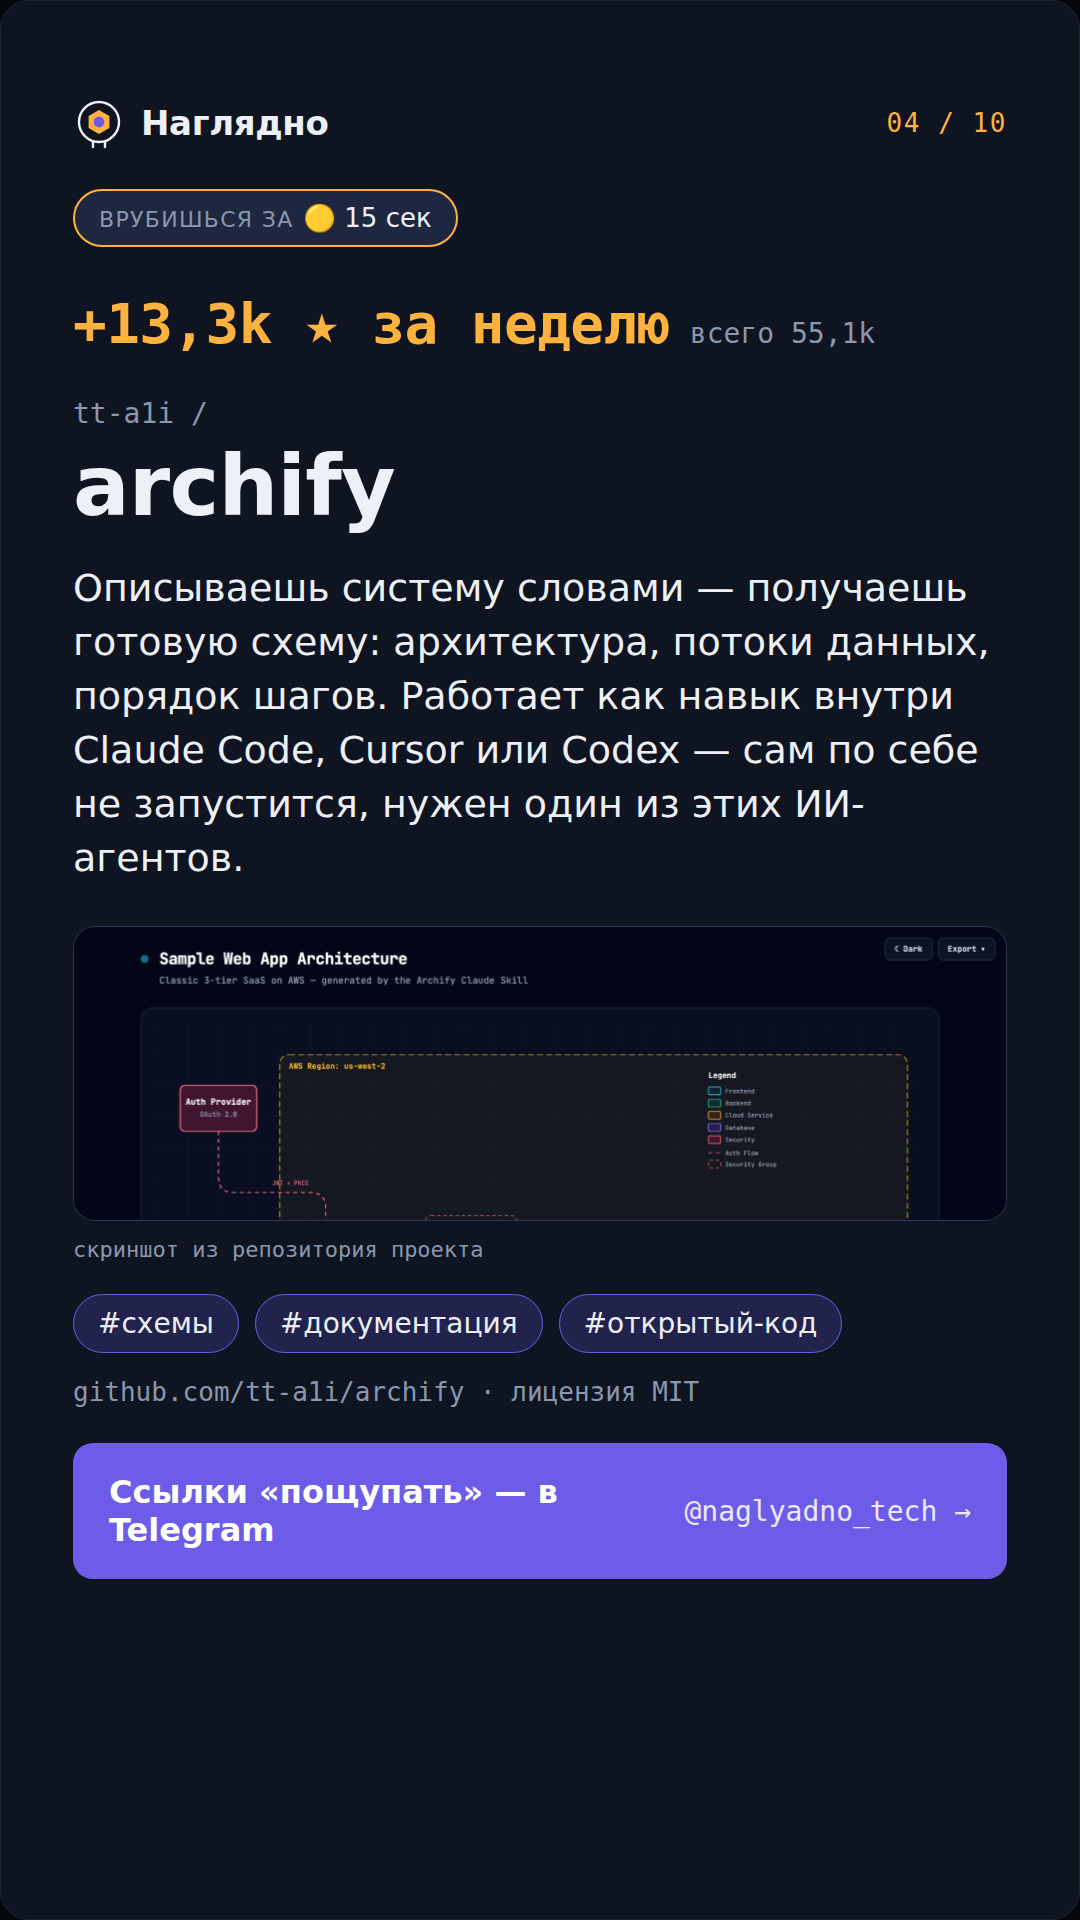
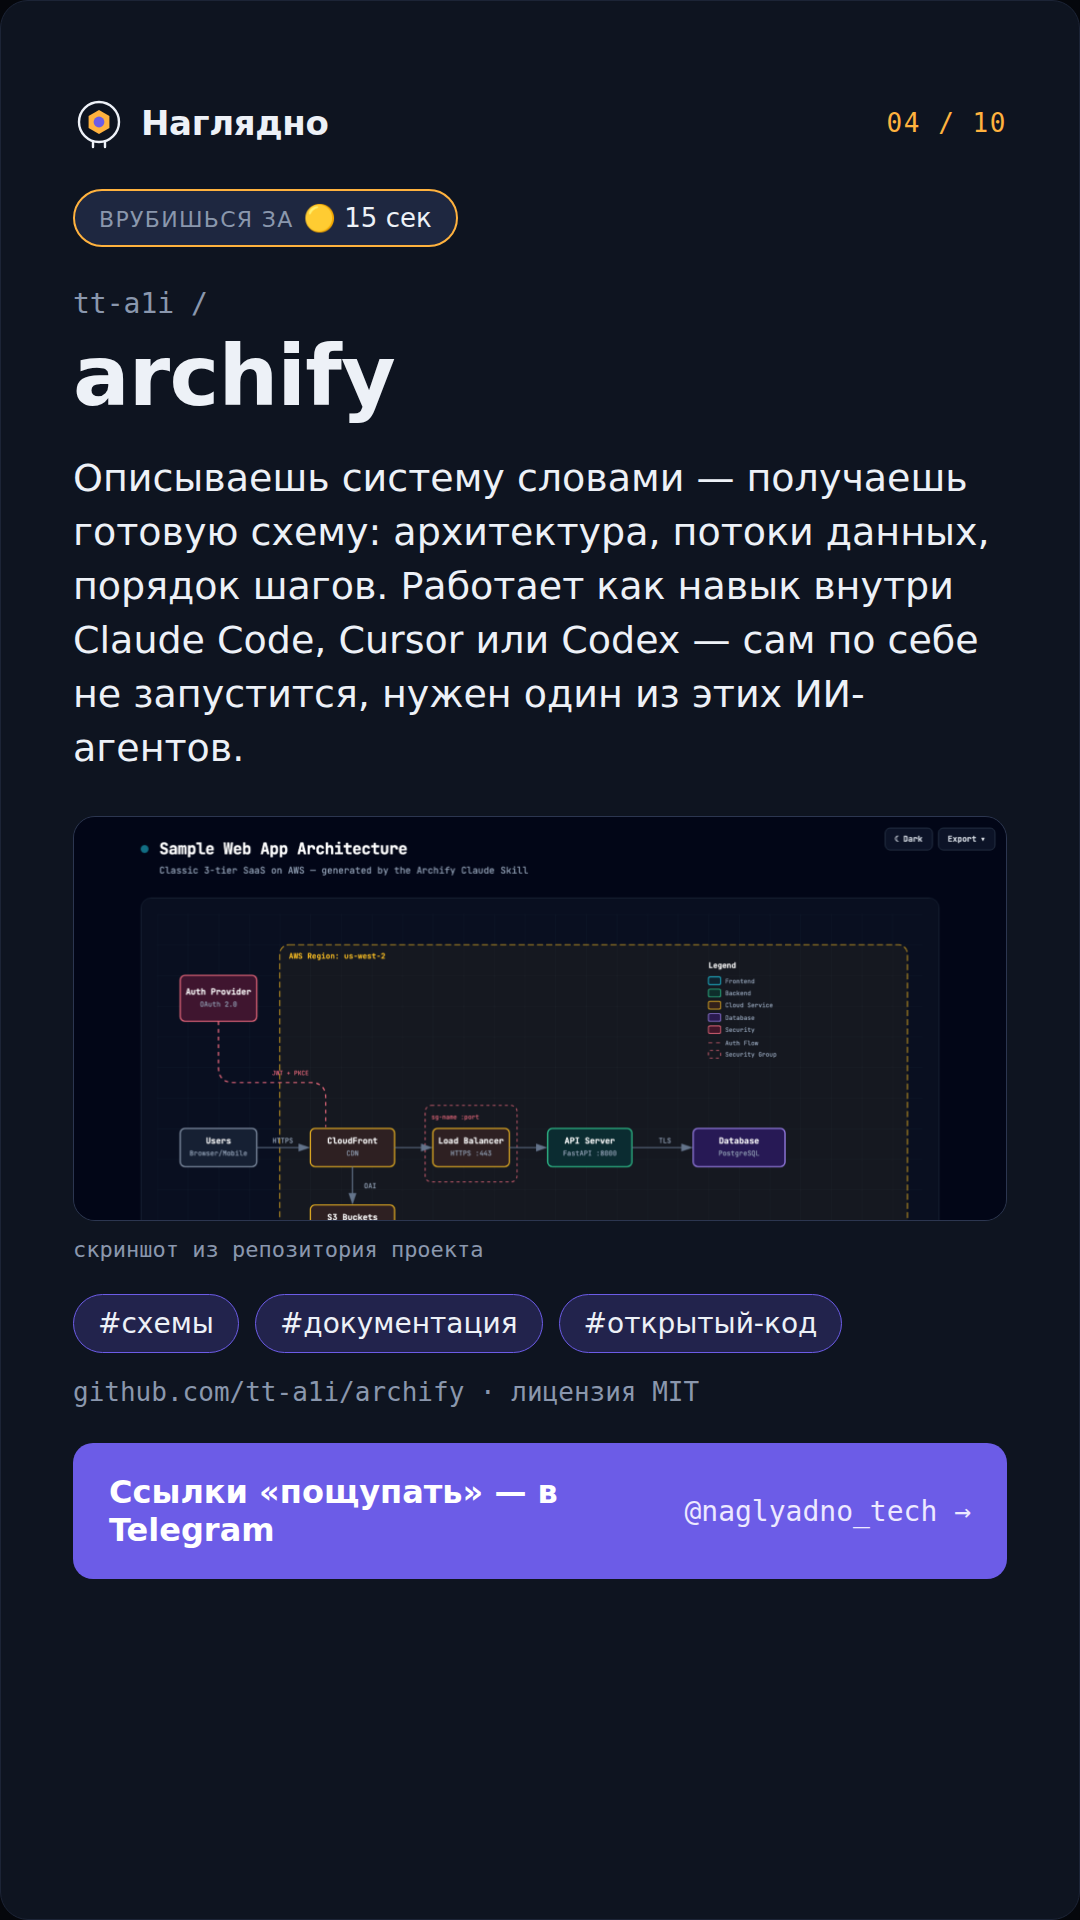
Убрать цифры звёзд с карточек
Числа не удалось подтвердить первоисточником — GitHub API из рабочей
среды недоступен, а веб-выдача на двух проверочных репозиториях дала
заведомо неверные значения. Блок метрики убран с карточек и с обложки;
чип «врубишься за» и описание остаются.

Заодно исправлена разбивка альбомов в publishToChannel: деление по 10
на наборе из 11 карточек давало хвост из одного элемента, а альбом
из одного медиа Telegram отклоняет. Теперь набор режется поровну.

Claude-Session: https://claude.ai/code/session_01DzVTpoES8dbpXif4hazhAx

diff --git a/cards/trending-repos.html b/cards/trending-repos.html
@@ -38,9 +38,6 @@ body{background:#05070c;font-family:var(--font-text);padding:40px;
   border:2px solid var(--accent);border-radius:999px;padding:12px 24px;font-size:26px}
 .chip small{color:var(--text-muted);text-transform:uppercase;letter-spacing:.06em;margin-right:10px;font-size:22px}
 
-.metric{margin-top:44px;display:flex;align-items:baseline;gap:20px;flex-wrap:wrap;min-height:66px}
-.metric .delta{font-family:var(--font-mono);font-weight:700;font-size:56px;color:var(--accent);letter-spacing:-.01em}
-.metric .total{font-family:var(--font-mono);font-size:28px;color:var(--text-muted)}
 
 .owner{margin-top:40px;font-family:var(--font-mono);font-size:28px;color:var(--text-muted)}
 h1{font-family:var(--font-display);font-weight:700;font-size:84px;line-height:1.05;letter-spacing:-.01em;margin-top:12px}
@@ -98,7 +95,7 @@ body.show-safe .safe{display:block}
 </style>
 </head>
 <body>
-<div class="slidelabel">trending-repos.html — 8 карточек 1080×1920 (9:16). Нижние 340 px оставлены под интерфейс TikTok.</div>
+<div class="slidelabel">trending-repos.html — обложка + 10 карточек 1080×1920 (9:16). Нижние 340 px оставлены под интерфейс TikTok.</div>
 <script>
 const MASCOT = `<svg class="eye" viewBox="0 0 52 52" fill="none">
   <g stroke="#EDF1F7" stroke-width="2.4" stroke-linecap="round">
@@ -117,7 +114,6 @@ const MASCOT = `<svg class="eye" viewBox="0 0 52 52" fill="none">
 const CARDS = [
   {
     owner: 'bilawalsidhu', repo: 'gods-eye-view',
-    delta: '+4,2k ★ за неделю', total: 'всего 19,9k',
     clarity: ['🟢', '3 сек'],
     desc: 'Симулятор шпионского спутника в браузере — но данные настоящие. Живые самолёты, корабли, землетрясения и городские камеры на 3D-глобусе.',
     shot: 'shots/gods-eye-view.png',
@@ -126,7 +122,6 @@ const CARDS = [
   },
   {
     owner: 'webadderallorg', repo: 'Recordly',
-    delta: '+2,4k ★ за неделю',
     clarity: ['🟢', '3 сек'],
     desc: 'Бесплатная запись экрана с автоматическим приближением, плавным курсором и врезкой с камеры. Ставится на Windows, macOS и Linux; авторы честно предупреждают, что проект молодой.',
     shot: 'shots/recordly.png',
@@ -135,7 +130,6 @@ const CARDS = [
   },
   {
     owner: 'heygen-com', repo: 'hyperframes',
-    delta: '+3,9k ★ за неделю', total: 'всего 48k',
     clarity: ['🟡', '15 сек'],
     desc: 'Пишешь обычную веб-страницу — на выходе готовый видеофайл. Монтажная программа не нужна: анимацию собирает <i>агент (ИИ, который сам выполняет действия)</i>.',
     icon: 'video',
@@ -144,7 +138,6 @@ const CARDS = [
   },
   {
     owner: 'tt-a1i', repo: 'archify',
-    delta: '+13,3k ★ за неделю', total: 'всего 55,1k',
     clarity: ['🟡', '15 сек'],
     desc: 'Описываешь систему словами — получаешь готовую схему: архитектура, потоки данных, порядок шагов. Работает как навык внутри Claude Code, Cursor или Codex — сам по себе не запустится, нужен один из этих ИИ-агентов.',
     shot: 'shots/archify.png',
@@ -153,7 +146,6 @@ const CARDS = [
   },
   {
     owner: 'microsoft', repo: 'markitdown',
-    delta: '+2,9k ★ за неделю',
     clarity: ['🟡', '15 сек'],
     desc: 'Утилита Microsoft, которая превращает любой файл — документ, таблицу, презентацию, PDF, картинку — в чистый текст, понятный нейросети. Вёрстка и заголовки не теряются.',
     icon: 'doc',
@@ -162,7 +154,6 @@ const CARDS = [
   },
   {
     owner: 'blader', repo: 'humanizer',
-    delta: '+5,8k ★ за неделю', total: 'всего 45,6k',
     clarity: ['🟢', '3 сек'],
     desc: 'Убирает из текста следы «написано нейросетью» — канцелярит, штампы, лишние обороты. Тоже навык для Claude Code / Codex / Cursor, а не отдельная программа или сайт.',
     icon: 'pen',
@@ -171,7 +162,6 @@ const CARDS = [
   },
   {
     owner: 'every-app', repo: 'open-seo',
-    delta: '+1,85k ★ за неделю', total: 'всего 18k',
     clarity: ['🟡', '15 сек'],
     desc: 'Открытая альтернатива Semrush и Ahrefs: трафик, запросы, позиции конкурентов. Без абонплаты — но не совсем бесплатно: нужен платный API-ключ DataForSEO, платишь по факту запросов, а не 20 000 ₽/мес подписки.',
     shot: 'shots/open-seo.png',
@@ -180,7 +170,6 @@ const CARDS = [
   },
   {
     owner: 'google-research', repo: 'timesfm',
-    delta: '+3,4k ★ за неделю', total: 'всего 32,1k',
     clarity: ['🟡', '15 сек'],
     desc: 'Модель Google, которая продолжает числовой ряд в будущее — спрос, трафик, продажи, температуру. Своё обучать не нужно: подставил данные и получил прогноз.',
     shot: 'shots/timesfm.png', light: true,
@@ -189,7 +178,6 @@ const CARDS = [
   },
   {
     owner: 'ChromeDevTools', repo: 'chrome-devtools-mcp',
-    delta: '+1,0k ★ за неделю', total: 'всего 51,4k',
     clarity: ['🟠', 'надо вникнуть'],
     desc: 'Официальный инструмент команды Chrome: позволяет ИИ управлять настоящим браузером — открывать сайты, кликать, читать ошибки — как это делает человек.',
     icon: 'browser',
@@ -198,7 +186,6 @@ const CARDS = [
   },
   {
     owner: 'mksglu', repo: 'context-mode',
-    delta: '+935 ★ за неделю', total: 'всего 21,5k',
     clarity: ['🟠', 'надо вникнуть'],
     desc: 'Разгружает «рабочую память» ИИ-помощника: например, скриншот страницы с 56 КБ ужимается до 300 байт, а суть сессии сохраняется между запусками.',
     icon: 'chip',
@@ -258,8 +245,8 @@ const COVER = `<div class="card cover">
     <span class="big">10</span><span class="unit">проектов,</span>
   </div>
   <h2>которые взлетели на GitHub за неделю</h2>
-  <p class="sub">От <b>+935</b> до <b>+13 300</b> звёзд за семь дней. Спутник-шпион в браузере,
-     запись экрана, предсказатель будущего — и ещё семь находок.</p>
+  <p class="sub"><b>Спутник-шпион в браузере</b>, запись экрана, предсказатель будущего —
+     и ещё семь находок, которые за неделю собрали больше всего звёзд.</p>
   <div class="grid">
     <div><img src="shots/gods-eye-view.png" alt=""></div>
     <div><img src="shots/archify.png" alt=""></div>
@@ -285,7 +272,6 @@ document.body.insertAdjacentHTML('beforeend', CARDS.map((c, i) => {
       <span class="num">${String(i + 1).padStart(2, '0')} / ${String(CARDS.length).padStart(2, '0')}</span>
     </div>
     <div class="chip"><small>врубишься за</small>${c.clarity[0]} ${c.clarity[1]}</div>
-    <div class="metric"><span class="delta">${c.delta}</span>${c.total ? `<span class="total">${c.total}</span>` : ''}</div>
     <div class="owner">${c.owner} /</div>
     <h1${c.repo.length > 15 ? ' class="long"' : ''}>${c.repo}</h1>
     <p class="desc">${c.desc}</p>

diff --git a/src/telegram.js b/src/telegram.js
@@ -102,20 +102,26 @@ export async function publishToChannel(files, text) {
   const chat_id = config.telegram.channelId;
   if (!chat_id) throw new Error('TELEGRAM_CHANNEL_ID не задан');
 
-  for (let start = 0; start < files.length; start += 10) {
-    const chunk = files.slice(start, start + 10);
+  // Альбом принимает 2–10 медиа. Режем на равные части, иначе на 11 карточках
+  // получится хвост из одной штуки, а альбом из одного элемента Telegram отклонит.
+  const parts = Math.ceil(files.length / 10);
+  const size = Math.ceil(files.length / parts);
+  const chunks = [];
+  for (let i = 0; i < files.length; i += size) chunks.push(files.slice(i, i + size));
+
+  for (const [n, chunk] of chunks.entries()) {
     const form = new FormData();
     form.set('chat_id', chat_id);
     const media = chunk.map((f, i) => {
       const name = `p${i}`;
-      form.set(name, new Blob([readFileSync(f)], { type: 'image/png' }), `${start + i + 1}.png`);
+      form.set(name, new Blob([readFileSync(f)], { type: 'image/png' }), `${n * size + i + 1}.png`);
       return { type: 'photo', media: `attach://${name}` };
     });
     form.set('media', JSON.stringify(media));
     const r = await fetch(api('sendMediaGroup'), { method: 'POST', body: form });
     const d = await r.json();
     if (!d.ok) throw new Error(`sendMediaGroup: ${JSON.stringify(d)}`);
-    log.info(`альбом ${start / 10 + 1}: ${chunk.length} шт. опубликовано`);
+    log.info(`альбом ${n + 1} из ${chunks.length}: ${chunk.length} шт. опубликовано`);
   }
 
   if (text) {
